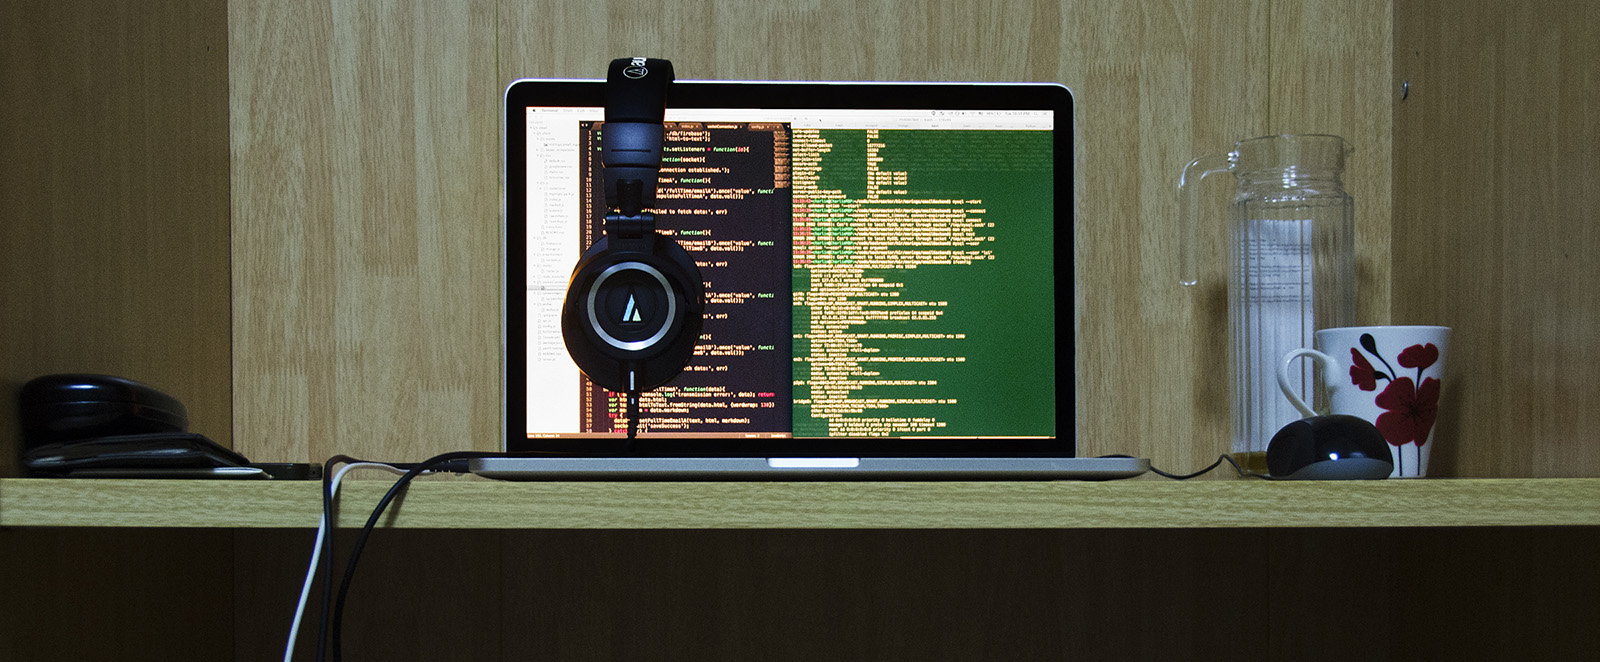
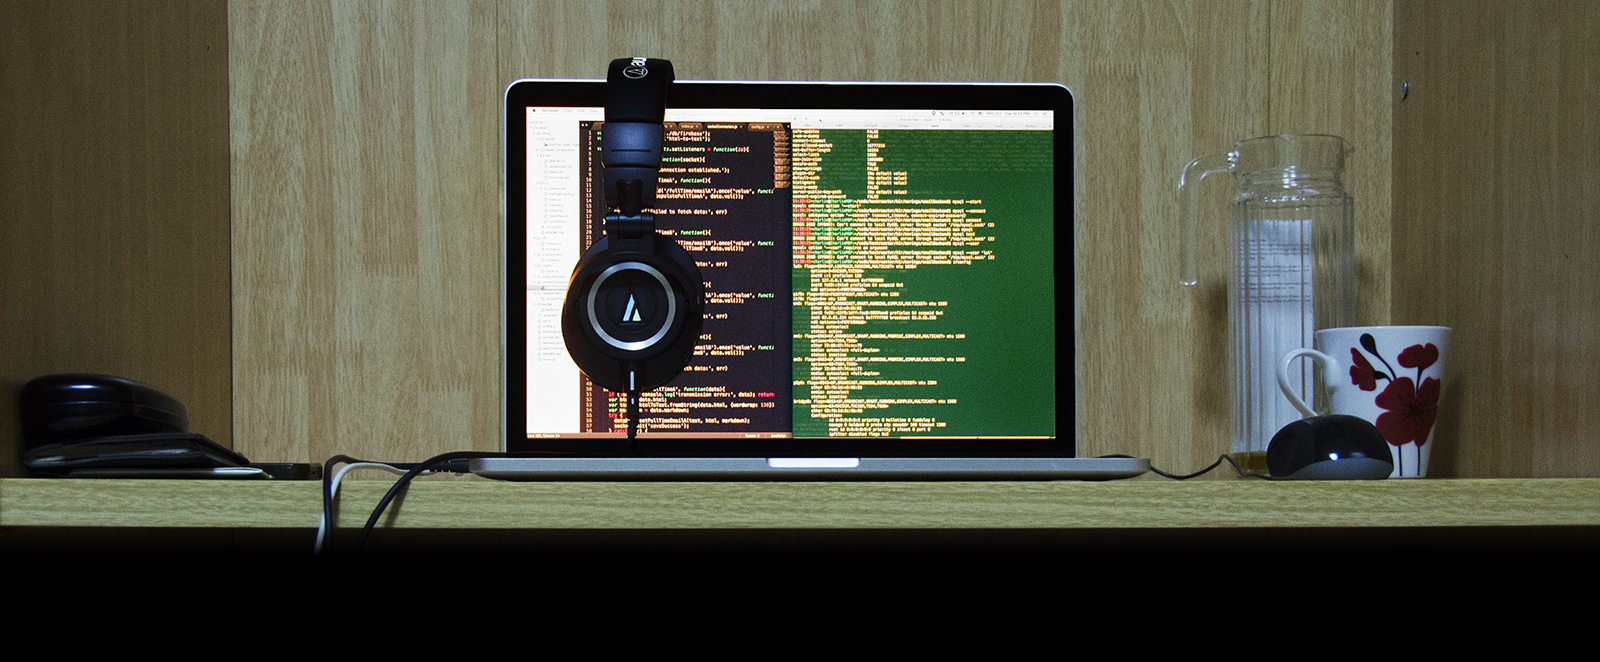
adds button hover animations

Changed region(s): [[0.0, 0.8157, 0.875, 1.0], [0.9062, 0.8459, 1.0, 1.0]]

diff --git a/client/app/index.html b/client/app/index.html
@@ -15,9 +15,9 @@
 <body>
 <div class='top'>
   <img id='head'  class="responsive-img" src="assets/D7K_9145_small.jpg">
-  <img class='top-menu' id='about-btn' class="responsive-img" src="assets/aboutButton.png">
-  <img class='top-menu' id='my-work-btn' class="responsive-img" src="assets/myWorkButton.png">
-  <img class='top-menu' id='connect-btn' class="responsive-img" src="assets/connectButton.png">
+  <img class='top-menu hvr-grow' id='about-btn' src="assets/aboutButton.png">
+  <img class='top-menu hvr-grow' id='my-work-btn' src="assets/myWorkButton.png">
+  <img class='top-menu hvr-grow' id='connect-btn' src="assets/connectButton.png">
 </div>
 
   <ul class="menu">

diff --git a/client/app/app.css b/client/app/app.css
@@ -1,5 +1,9 @@
 /* app css stylesheet */
 
+body {
+  background-color: black;
+}
+
 .menu {
   list-style: none;
   border-bottom: 0.1em solid black;
